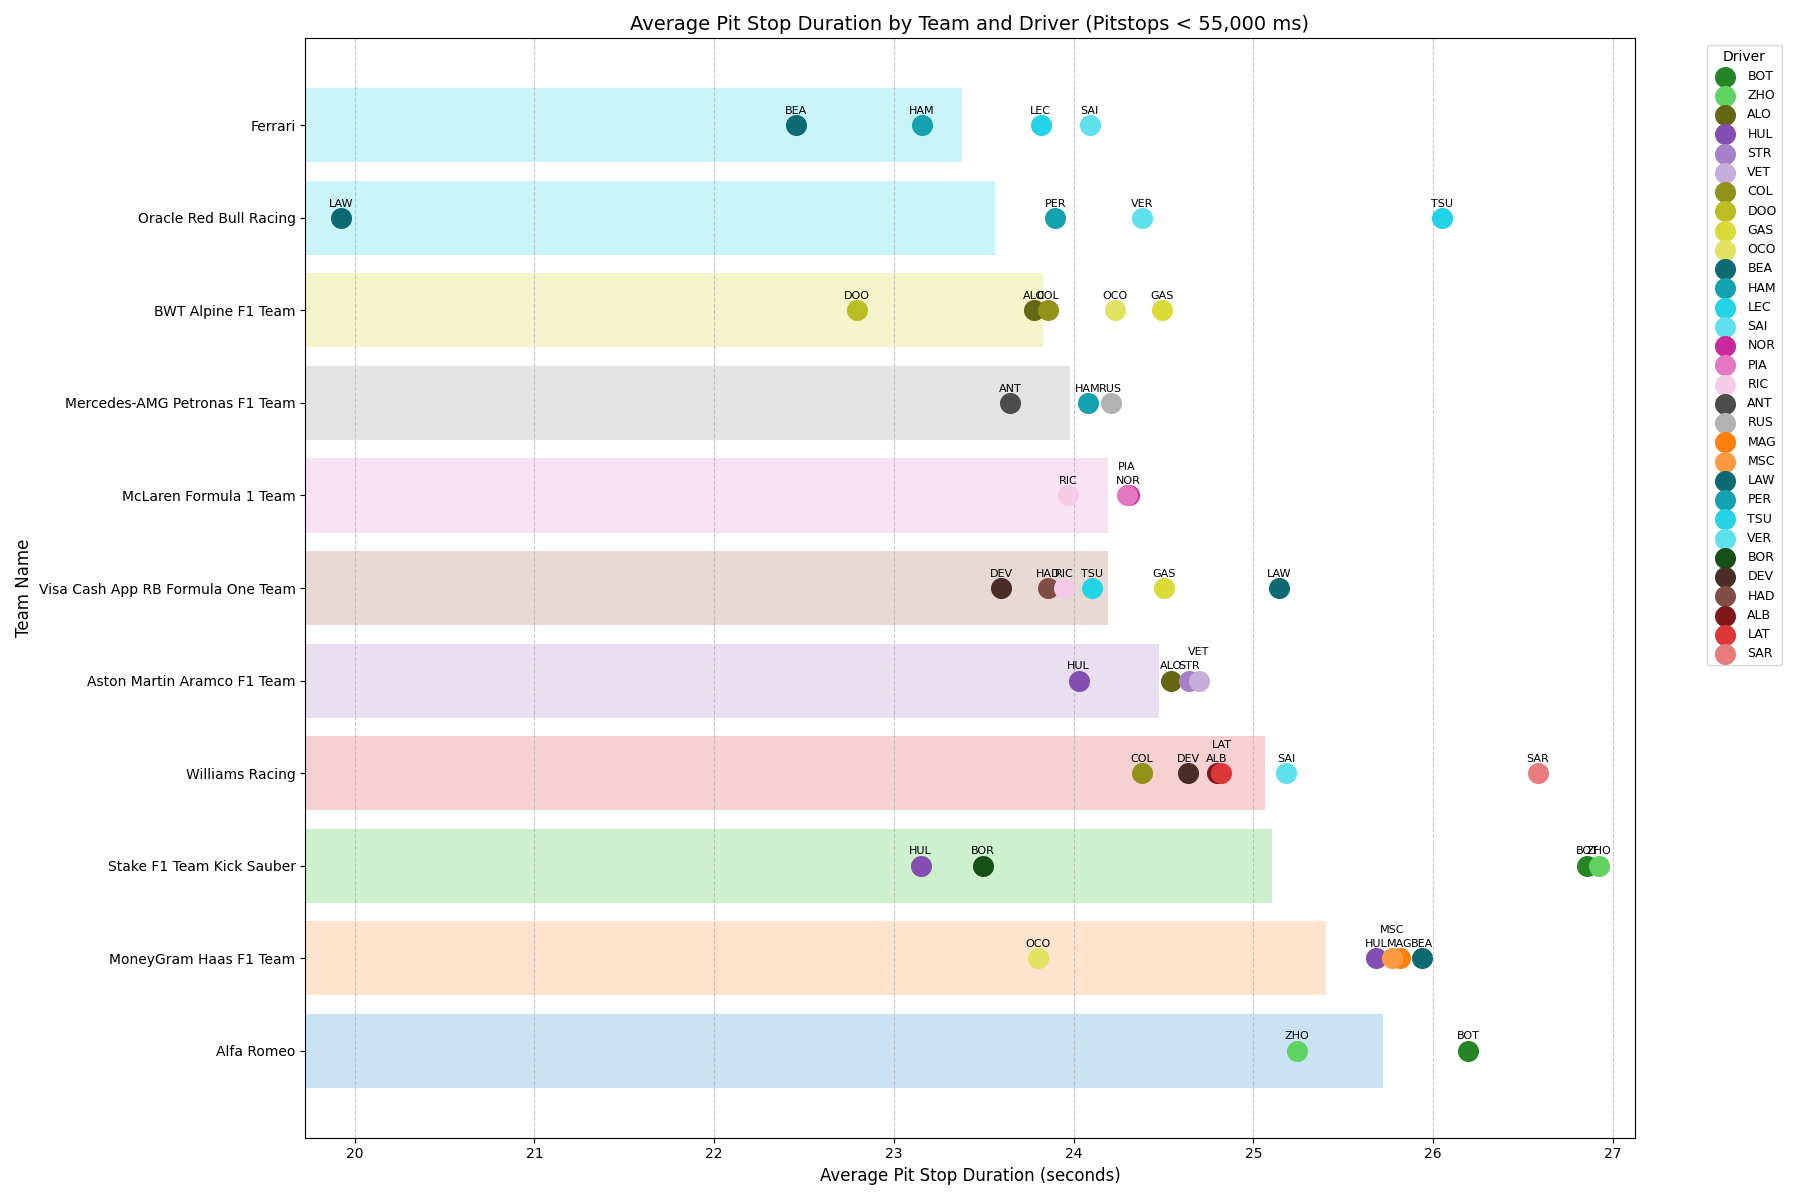
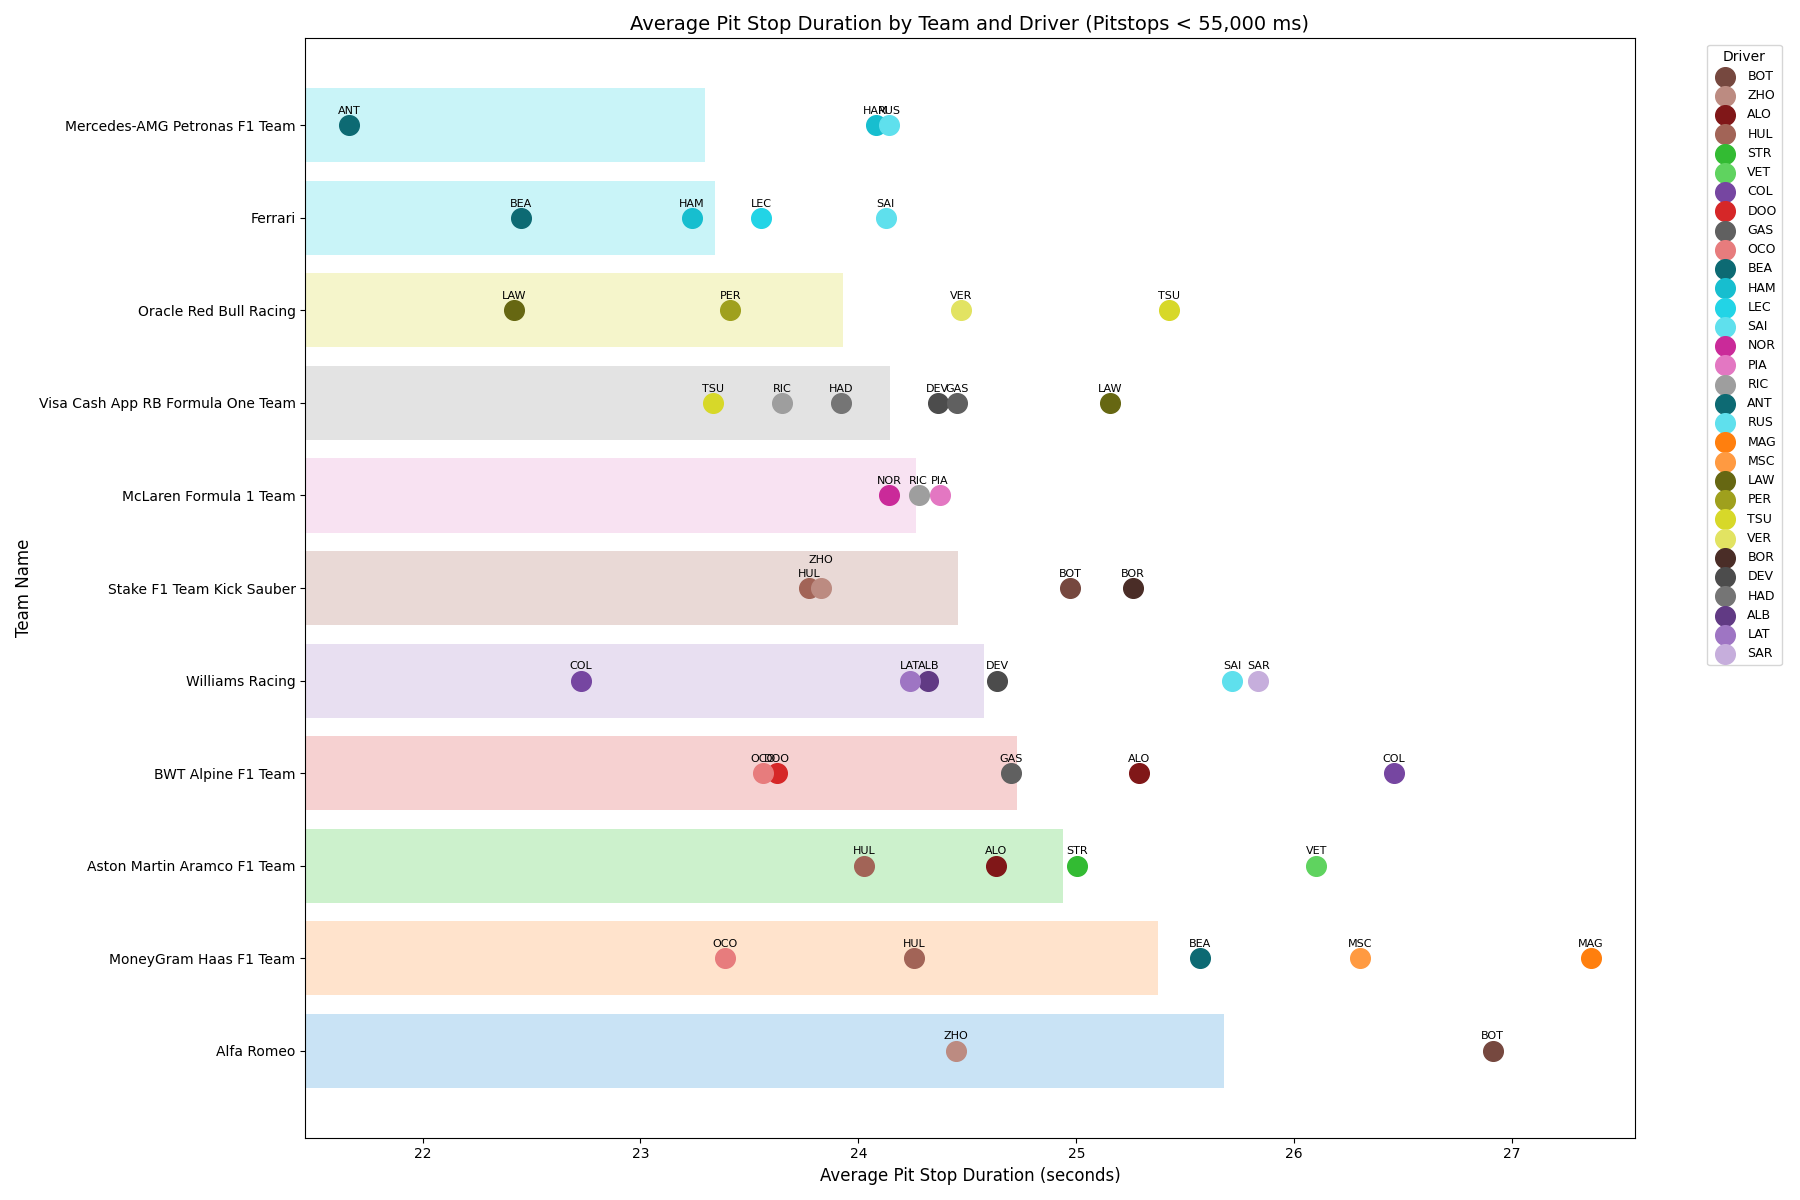
update pitstop

diff --git a/31_general_analytics.py b/31_general_analytics.py
@@ -591,44 +591,22 @@ plt.show()
 # AVERAGE PIT STOP BY TEAM
 ##################################################################################################################
 
-# pitstop_df = df[df["RACE_AvgPitStopDuration_ms"] < 55000]
-# avg_pitstop_by_team = (
-#     pitstop_df.groupby("TeamNameMapped")["RACE_AvgPitStopDuration_ms"]
-#     .mean()
-#     .sort_values()
-# )
-# avg_pitstop_by_team = avg_pitstop_by_team / 1000  # Convert ms to seconds
-
-# plt.figure(figsize=(10, 6))
-# bars = plt.barh(
-#     avg_pitstop_by_team.index.astype(str), avg_pitstop_by_team.values, color="skyblue"
-# )
-# plt.ylabel("TeamNameMapped")
-# plt.xlabel("Average Pit Stop Duration (seconds)")
-# plt.title("Average Pit Stop Duration by Team (Pitstops < 55,000 ms)")
-# plt.xlim(23.5, 26)  # Set X axis between 23 and 26 seconds
-# plt.tight_layout()
-# plt.savefig("ANALYTICS/AVG_PITSTOP_DURATION_BY_TEAM.png")
-# plt.show()
-
-# %%
-
-# Filter the DataFrame based on the pit stop duration
-pitstop_df_filtered = df[df["RACE_AvgPitStopDuration_ms"] < 55000].copy()
-
-# Convert milliseconds to seconds
+# --- Filter and transform pit stop data ---
+pitstop_df_filtered = df[
+    (df["RACE_AvgPitStopDuration_ms"] < 55000) & (df["Status"] == "Finished")
+].copy()
 pitstop_df_filtered["PitStopDuration_s"] = (
     pitstop_df_filtered["RACE_AvgPitStopDuration_ms"] / 1000
 )
 
-# Calculate the average pit stop duration for EACH DRIVER, using 'Abbreviation'
+# --- Average pit stop by driver ---
 avg_pitstop_by_driver = (
     pitstop_df_filtered.groupby(["TeamNameMapped", "Abbreviation"])["PitStopDuration_s"]
     .mean()
     .reset_index()
 )
 
-# Calculate average pit stop duration per team for sorting the Y-axis
+# --- Average by team for sorting ---
 avg_pitstop_by_team_for_sort = (
     avg_pitstop_by_driver.groupby("TeamNameMapped")["PitStopDuration_s"]
     .mean()
@@ -636,176 +614,132 @@ avg_pitstop_by_team_for_sort = (
 )
 sorted_teams = avg_pitstop_by_team_for_sort.index.tolist()
 
-# Map team names to numerical positions for plotting (vertical alignment)
+# --- Map team names to positions ---
 team_position_map = {team: i for i, team in enumerate(sorted_teams)}
 avg_pitstop_by_driver["TeamPosition"] = avg_pitstop_by_driver["TeamNameMapped"].map(
     team_position_map
 )
-
-# Set all offsets to 0 to place dots exactly on the center line
 avg_pitstop_by_driver["DriverOffset"] = 0
-avg_pitstop_by_driver["PlotPosition"] = (
-    avg_pitstop_by_driver["TeamPosition"] + avg_pitstop_by_driver["DriverOffset"]
-)
+avg_pitstop_by_driver["PlotPosition"] = avg_pitstop_by_driver["TeamPosition"]
 
-
-# --- Color Mapping: Same color, different shades per team ---
+# --- Team color mapping ---
 team_base_colors_cmap = plt.cm.get_cmap("tab10", len(sorted_teams))
 team_color_map = {team: team_base_colors_cmap(i) for i, team in enumerate(sorted_teams)}
 
+# --- Driver color shades ---
 driver_color_map = {}
 for team in sorted_teams:
-    drivers_in_team_df = avg_pitstop_by_driver[
-        avg_pitstop_by_driver["TeamNameMapped"] == team
-    ].copy()
-    # Use 'Abbreviation' for sorting drivers within a team for consistent shade assignment
-    drivers_in_team_sorted = sorted(drivers_in_team_df["Abbreviation"].unique())
-    num_drivers = len(drivers_in_team_sorted)
+    drivers = sorted(
+        avg_pitstop_by_driver[avg_pitstop_by_driver["TeamNameMapped"] == team][
+            "Abbreviation"
+        ].unique()
+    )
+    num_drivers = len(drivers)
 
     base_rgb = to_rgb(team_color_map[team])
     h, l, s = colorsys.rgb_to_hls(*base_rgb)
+    lightness_values = (
+        np.linspace(max(0.1, l - 0.2), min(0.9, l + 0.2), num_drivers)
+        if num_drivers > 1
+        else [l]
+    )
 
-    if num_drivers == 1:
-        lightness_values = [l]
-    else:
-        min_l = max(0.1, l - 0.2)
-        max_l = min(0.9, l + 0.2)
-        lightness_values = np.linspace(min_l, max_l, num_drivers)
+    for i, abbr in enumerate(drivers):
+        new_rgb = colorsys.hls_to_rgb(h, lightness_values[i], s)
+        driver_color_map[abbr] = new_rgb
 
-    for i, driver_abbr in enumerate(drivers_in_team_sorted):
-        new_hls_color = (h, lightness_values[i], s)
-        new_rgb_color = colorsys.hls_to_rgb(*new_hls_color)
-        driver_color_map[driver_abbr] = new_rgb_color
-# --- End Color Mapping ---
-
-
-# Create the dot plot
-plt.figure(figsize=(18, 12))  # Increased figure width and height significantly
+# --- Plot setup ---
+plt.figure(figsize=(18, 12))
 ax = plt.gca()
 
-# --- Add Horizontal Bar Graph for Team Averages in Background ---
-# Calculate overall team average pit stop durations (for the bars)
-team_avg_durations_for_bars = (
-    pitstop_df_filtered.groupby("TeamNameMapped")["PitStopDuration_s"]
-    .mean()
-    .reset_index()
-)
+# --- Reuse the team sort order and averages for background bars ---
+team_avg_durations_for_bars = avg_pitstop_by_team_for_sort.reset_index()
+team_avg_durations_for_bars.columns = ["TeamNameMapped", "PitStopDuration_s"]
 team_avg_durations_for_bars["TeamPosition"] = team_avg_durations_for_bars[
     "TeamNameMapped"
 ].map(team_position_map)
 
-for index, row in team_avg_durations_for_bars.iterrows():
-    team_name = row["TeamNameMapped"]
-    avg_duration = row["PitStopDuration_s"]
-    plot_position = row["TeamPosition"]
-
-    # Use a lighter shade of the team's base color for the bar
-    base_rgb = to_rgb(team_color_map[team_name])
+# --- Background bars ---
+for _, row in team_avg_durations_for_bars.iterrows():
+    base_rgb = to_rgb(team_color_map[row["TeamNameMapped"]])
     h, l, s = colorsys.rgb_to_hls(*base_rgb)
-    bar_color = colorsys.hls_to_rgb(h, l + 0.3 * (1 - l), s)  # Make it lighter
+    bar_color = colorsys.hls_to_rgb(h, l + 0.3 * (1 - l), s)
 
     ax.barh(
-        plot_position,
-        avg_duration,
-        height=0.8,  # Bar thickness
+        row["TeamPosition"],
+        row["PitStopDuration_s"],
+        height=0.8,
         color=bar_color,
-        alpha=0.3,  # Transparency for background
-        zorder=1,  # Ensure bars are behind dots
+        alpha=0.3,
+        zorder=1,
     )
-# --- End Horizontal Bar Graph ---
 
+# --- Plot driver dots and names ---
+text_offset_y = 0.1
+vertical_text_stack_step = 0.15
+text_label_registry = []
 
-# Plot each dot and add driver name as text
-text_offset_y = 0.1  # Vertical offset for text
-horizontal_overlap_threshold = 0.1  # How close horizontally before considering overlap
-vertical_text_stack_step = 0.15  # Vertical step for stacking overlapping names
-
-# Store information about plotted labels to manage overlaps
-plotted_labels_info = []  # Stores (x_min, x_max, y_pos, abbreviation) for each label
-
-for index, row in avg_pitstop_by_driver.iterrows():
-    dot_color = driver_color_map.get(
-        row["Abbreviation"], "gray"
-    )  # Use Abbreviation for color mapping
+for _, row in avg_pitstop_by_driver.iterrows():
+    dot_color = driver_color_map.get(row["Abbreviation"], "gray")
     ax.scatter(
         row["PitStopDuration_s"],
         row["PlotPosition"],
         color=dot_color,
         s=200,
         label=row["Abbreviation"],
-        zorder=2,  # Ensure dots are in front of bars
+        zorder=2,
     )
 
-    # Initial text position
+    # Handle text overlap
     text_x = row["PitStopDuration_s"]
     text_y = row["PlotPosition"] + text_offset_y
-    abbreviation = row["Abbreviation"]
+    text_width = len(row["Abbreviation"]) * 0.02
 
-    # Calculate approximate text width (rough estimation based on font size and char count)
-    text_width_approx = len(abbreviation) * 0.02  # Adjust this factor as needed
+    overlaps = [
+        info
+        for info in text_label_registry
+        if (abs(info[1] - text_x) < text_width)
+        and (abs(info[2] - text_y) < vertical_text_stack_step)
+    ]
+    text_y += len(overlaps) * vertical_text_stack_step
 
-    # Check for overlaps with previously plotted labels
-    current_label_x_min = text_x - text_width_approx / 2
-    current_label_x_max = text_x + text_width_approx / 2
-
-    # Find labels that overlap horizontally and are on the same or very close vertical level
-    overlapping_labels_on_same_y = []
-    for prev_x_min, prev_x_max, prev_y_pos, prev_abbr in plotted_labels_info:
-        # Check for horizontal overlap AND if they are vertically close (same team line)
-        if (
-            max(current_label_x_min, prev_x_min) < min(current_label_x_max, prev_x_max)
-            and abs(text_y - prev_y_pos) < vertical_text_stack_step
-        ):  # Check vertical proximity
-
-            overlapping_labels_on_same_y.append(prev_abbr)
-
-    # If overlaps detected, adjust the vertical position of the current label
-    if overlapping_labels_on_same_y:
-        text_y += len(overlapping_labels_on_same_y) * vertical_text_stack_step
-
-    # Plot the text
-    text_obj = ax.text(
+    ax.text(
         text_x,
         text_y,
-        abbreviation,
+        row["Abbreviation"],
         ha="center",
         va="bottom",
         fontsize=8,
         color="black",
-        clip_on=True,  # Ensure text is clipped if it goes outside the axes limits
-        zorder=3,  # Ensure text is in front of dots and bars
+        clip_on=True,
+        zorder=3,
     )
 
-    # Store the final position of this label for future overlap checks
-    plotted_labels_info.append(
-        (
-            text_x - text_width_approx / 2,
-            text_x + text_width_approx / 2,
-            text_y,
-            abbreviation,
-        )
-    )
+    text_label_registry.append((row["Abbreviation"], text_x, text_y))
 
-
-# Set y-axis ticks and labels to show team names
+# --- Y-axis: team names ---
 plt.yticks(
     [team_position_map[team] for team in sorted_teams], sorted_teams, fontsize=10
 )
 
-plt.ylabel("Team Name", fontsize=12)
+# --- Axis labels and grid ---
 plt.xlabel("Average Pit Stop Duration (seconds)", fontsize=12)
+plt.ylabel("Team Name", fontsize=12)
 plt.title(
     "Average Pit Stop Duration by Team and Driver (Pitstops < 55,000 ms)", fontsize=14
 )
-plt.xlim(23.4, 26.1)  # Adjusted X axis limits slightly to accommodate text
-plt.grid(axis="x", linestyle="--", alpha=0.7)
 
-# Create a legend for drivers
+# --- Dynamic x-axis limits ---
+x_min = avg_pitstop_by_driver["PitStopDuration_s"].min() - 0.2
+x_max = avg_pitstop_by_driver["PitStopDuration_s"].max() + 0.2
+plt.xlim(x_min, x_max)
+
+# --- Driver legend (deduplicated) ---
 handles, labels = ax.get_legend_handles_labels()
-by_label = dict(zip(labels, handles))
+unique_labels = dict(zip(labels, handles))
 plt.legend(
-    by_label.values(),
-    by_label.keys(),
+    unique_labels.values(),
+    unique_labels.keys(),
     title="Driver",
     bbox_to_anchor=(1.05, 1),
     loc="upper left",
@@ -813,8 +747,10 @@ plt.legend(
     title_fontsize=10,
 )
 
-plt.tight_layout(rect=[0, 0, 0.85, 1])  # Adjust layout to make space for the legend
+# --- Save and show ---
+plt.tight_layout()
+plt.savefig("ANALYTICS/AVG_PITSTOP_DURATION_BY_TEAM_AND_DRIVER_DOT_PLOT.png")
+
 plt.show()
 
-# If you want to save the figure:
-# plt.savefig("ANALYTICS/AVG_PITSTOP_DURATION_BY_TEAM_AND_DRIVER_DOT_PLOT.png")
+##################################################################################################################
